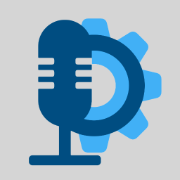
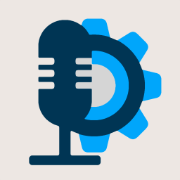
Tweak colors

diff --git a/src/pages/_document.tsx b/src/pages/_document.tsx
@@ -7,8 +7,7 @@ const Document = () => (
         name="description"
         content="Modify any podcast feed with custom filters, artwork, titles, and more!"
       />
-      <meta name="theme-color" content="#41B0F6" media="(prefers-color-scheme: light)" />
-      <meta name="theme-color" content="#348CC4" media="(prefers-color-scheme: dark)" />
+      <meta name="theme-color" content="#00A6FB" />
       <link rel="shortcut icon" href="/favicon.ico" />
       <link rel="apple-touch-icon" sizes="112x112" href="/apple-touch-icon.png" />
     </Head>

diff --git a/tailwind.config.ts b/tailwind.config.ts
@@ -1,12 +1,12 @@
-import { type Config } from 'tailwindcss';
+import type { Config } from 'tailwindcss';
 
 export default {
   content: ['./src/**/*.{js,ts,jsx,tsx}'],
   theme: {
     extend: {
       colors: {
-        podmod: '#41B0F6',
-        'podmod-dark': '#348CC4',
+        podmod: '#00A6FB',
+        'podmod-dark': '#0582CA',
       },
     },
   },
